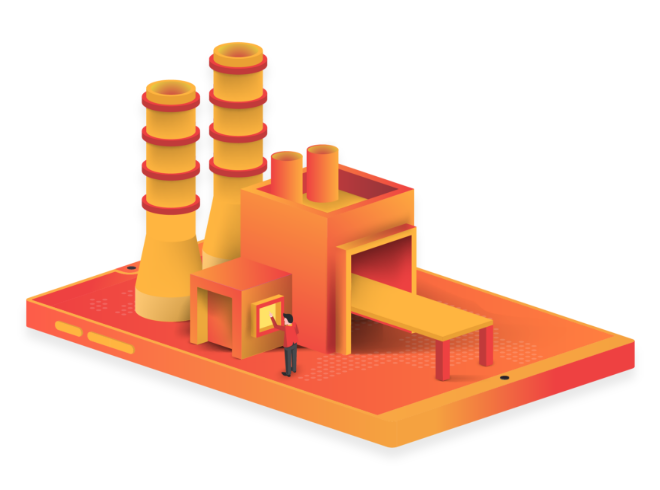
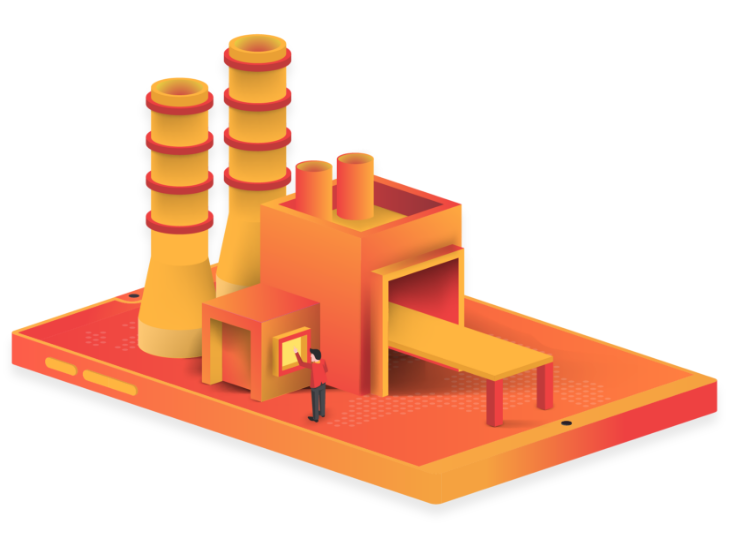
fix styles & added image phone

diff --git a/src/pages/home.js b/src/pages/home.js
@@ -5,6 +5,7 @@ import web_desing from '../assets/img/Diseño_Web.png'
 import apps from '../assets/img/apps.png'
 import sw from '../assets/img/software.png'
 import divider from '../assets/img/divisor-titulos–2.png'
+import phone from '../assets/img/phone.png'
 import technologies from '../assets/img/tecnologias.png'
 import construction from '../assets/img/fabrica.png'
 import Contact from './contact'
@@ -12,7 +13,7 @@ const Home = () => (
 <div>
   <div className='home-full-img'>
     <div className='section' id='main'>
-      <div className='columns'>
+      <div className='columns' id="columns-header">
         <div className='colum is-flex is-three-fifths' style={{alignItems: 'center'}}>
           <img className='mockup' src={home} alt='Blaze Pixel' />
         </div>
@@ -26,8 +27,12 @@ const Home = () => (
           </p>
           <div className='columns '>
             <div className='column'>
-              <a href="#services" className='button is-rounded primary is-outlined margin-sides'>EMPEZAR</a>
-              <a href="#contact" className='button is-rounded primary is-outlined margin-sides'>CONTÁCTANOS</a>
+              <a href="#contact" className='button is-rounded is-primary margin-sides'>
+                CONTÁCTANOS
+              </a>
+              <a href="#services" className='button is-rounded is-primary margin-sides'>
+                EMPEZAR
+              </a>
             </div>
           </div>
         </div>
@@ -112,6 +117,10 @@ const Home = () => (
         </div>
       </div>
     </div>
+  </div>
+
+  <div className='section img-phone is-paddingless'>
+    <img src={phone} />
   </div>
 
   <div className='construction section' id='about'>

diff --git a/src/css/mq.scss b/src/css/mq.scss
@@ -3,9 +3,6 @@
     display: none;
   }
   .home-full-img{
-    p {
-      color: $dark !important;
-    }
     background: transparent;
     margin-bottom: -30px;
     .columns{
@@ -35,6 +32,15 @@
       text-align: center;
       text-align: justify;
     }
+  }
+  .home-full-img {
+    background: linear-gradient(to top, rgba(255,181,64,1) 0%, rgba(244,104,61,1) 100%);
+  }
+  #columns-header {
+    flex-direction: column-reverse;
+  }
+  .img-phone{
+  	display: block;
   }
 }
 

diff --git a/src/css/base.scss b/src/css/base.scss
@@ -84,7 +84,9 @@ html *
 }
 
 .tile.is-child{
+	// box-shadow: 1px 5px 22px grey;
 	box-shadow: 5px 5px 22px #9E9E9E;
+
 }
 
 .navbar-brand{
@@ -257,4 +259,16 @@ span.contact-main-text{
 .margin-sides {
 	margin-left: $margin;
 	margin-right: $margin;
+}
+
+#header-movil {
+	display: none !important;
+}
+
+#header-desktop {
+	display: flex;
+	justify-content: center;
+}
+.img-phone{
+	display: none
 }
